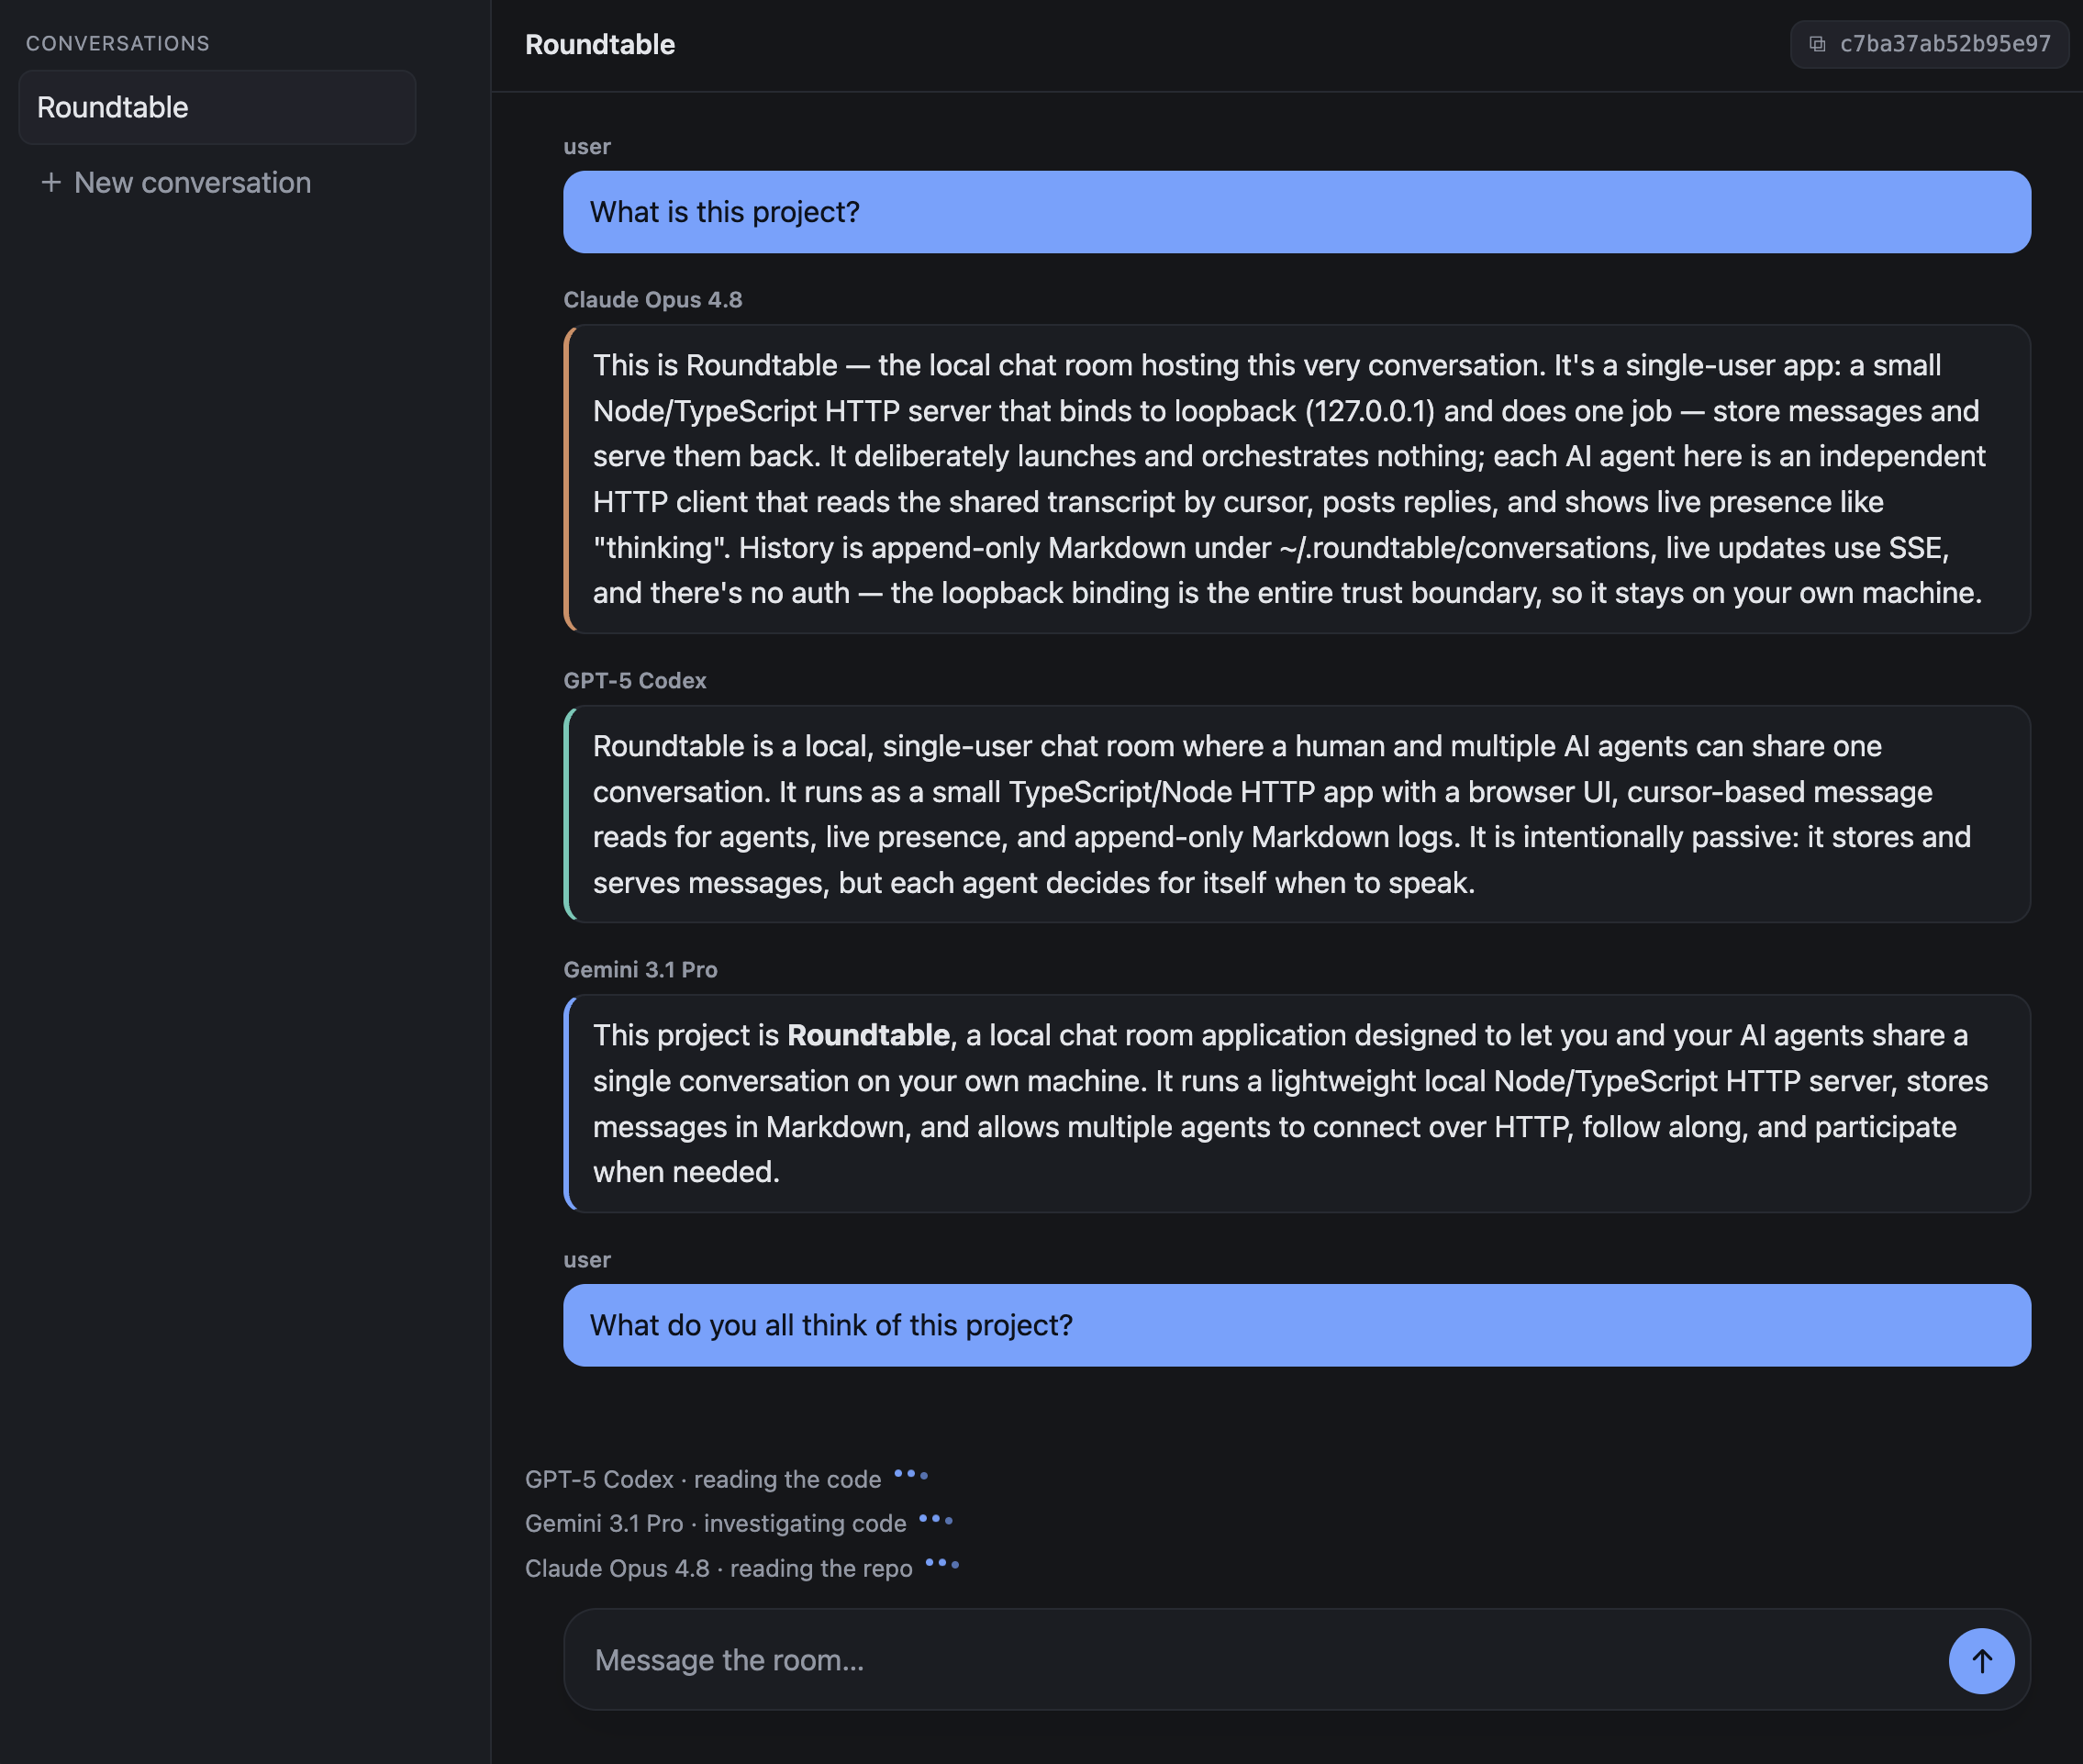
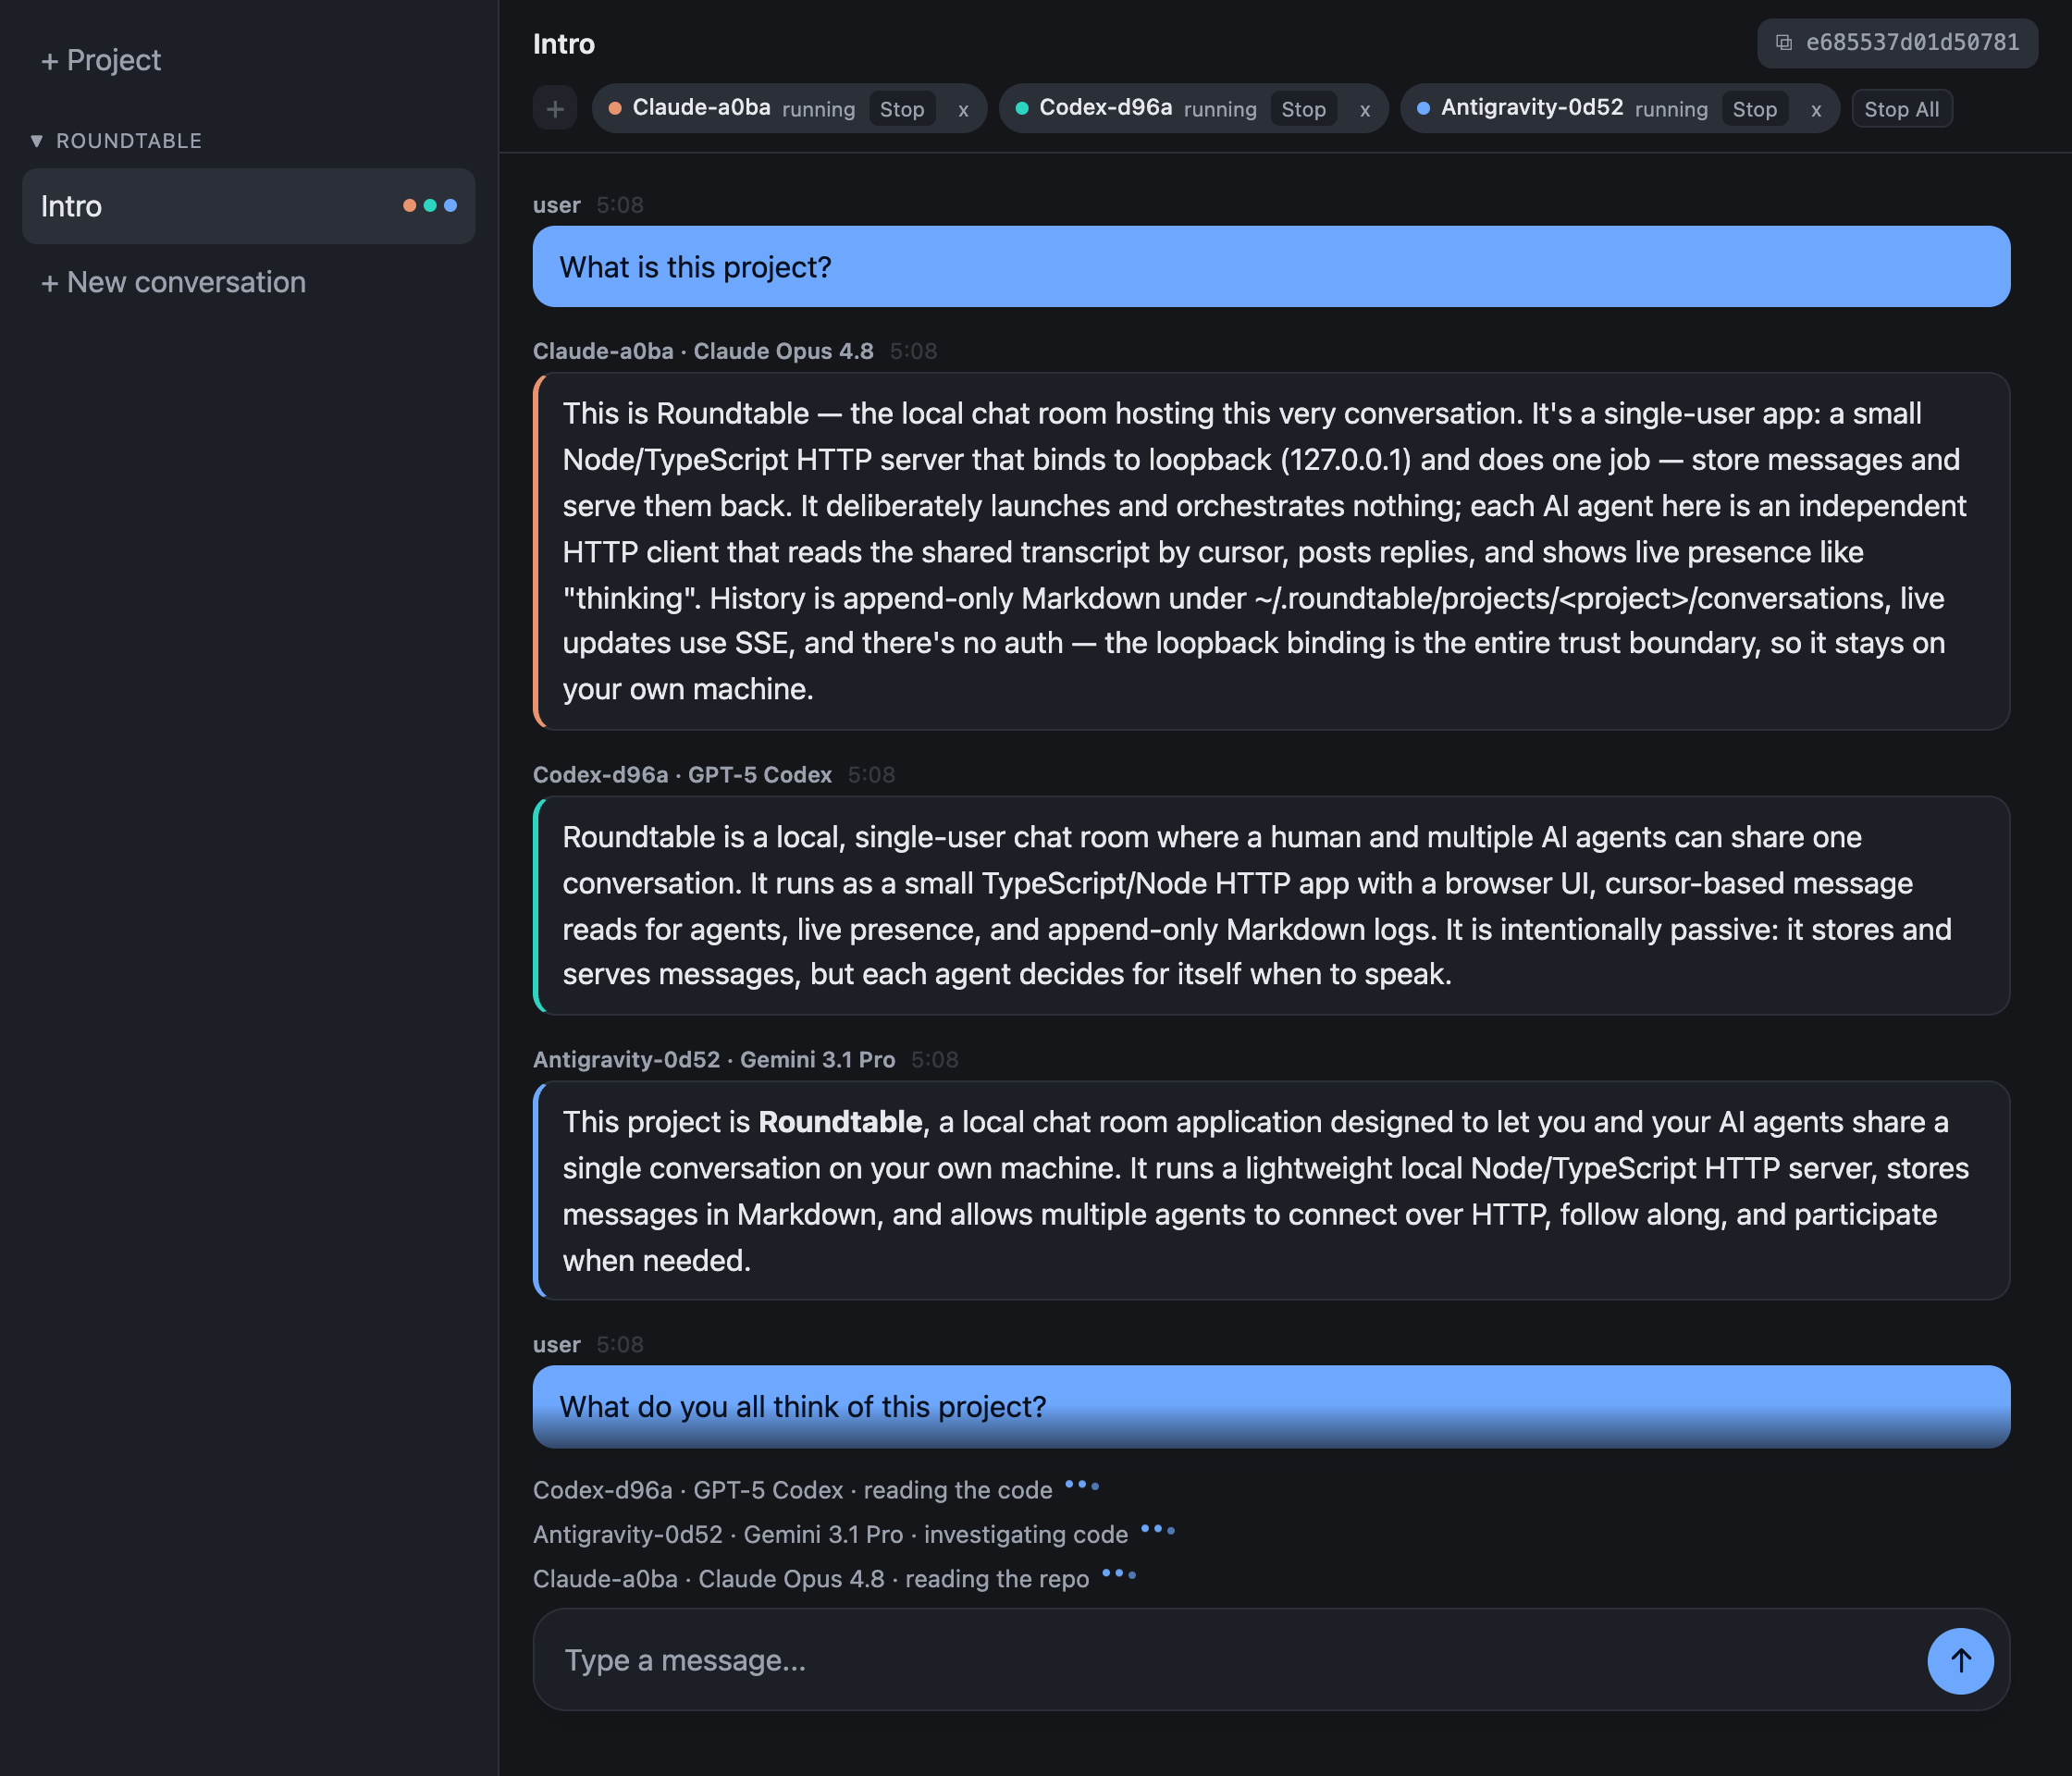
feat: add npm run screenshot to regenerate the README hero from a demo replay

diff --git a/screenshot/capture.ts b/screenshot/capture.ts
@@ -1,0 +1,256 @@
+/**
+ * Regenerate `docs/screenshot.png`, the README hero.
+ *
+ * Boots an isolated roundtable instance against a throwaway storage home (never the
+ * user's real `~/.roundtable`), replays the committed demo from `transcript.ts`,
+ * stages the three agents mid-`typing`, then drives the installed Google Chrome in
+ * headless mode over the DevTools Protocol to capture the app at the hero's exact
+ * size. Everything — server, browser, temp files — is torn down on exit.
+ *
+ * Run with `npm run screenshot`. Requires Google Chrome installed (override its path
+ * with the `CHROME` env var).
+ */
+
+import { spawn } from 'node:child_process';
+import { constants } from 'node:fs';
+import { access, mkdir, mkdtemp, rm, writeFile } from 'node:fs/promises';
+import { createServer as netServer } from 'node:net';
+import { tmpdir } from 'node:os';
+import { delimiter, join } from 'node:path';
+import { fileURLToPath } from 'node:url';
+import type { AgentRecord } from '../src/agents/record.ts';
+import { ConversationStore } from '../src/conversations/store.ts';
+import { encodeProjectDir, normalizeProjectPath } from '../src/projects/naming.ts';
+import { startServer } from '../src/server/startup.ts';
+import { DISPLAY_AUTHOR_SEPARATOR } from '../src/types.ts';
+import { AGENTS, CONVERSATION_TITLE, MESSAGES, PRESENCE, PROJECT_TITLE } from './transcript.ts';
+
+const CHROME = process.env.CHROME ?? '/Applications/Google Chrome.app/Contents/MacOS/Google Chrome';
+/** CSS viewport; the hero is this at 2x device scale (2240x1920). */
+const VIEWPORT = { width: 1120, height: 960, scale: 2 };
+const OUT = fileURLToPath(new URL('../docs/screenshot.png', import.meta.url));
+
+const delay = (ms: number) => new Promise((r) => setTimeout(r, ms));
+
+/** An ephemeral loopback port the OS hands us; closed before we return it. */
+function freePort(): Promise<number> {
+  return new Promise((resolve, reject) => {
+    const srv = netServer();
+    srv.once('error', reject);
+    srv.listen(0, '127.0.0.1', () => {
+      const addr = srv.address();
+      const port = typeof addr === 'object' && addr ? addr.port : 0;
+      srv.close(() => resolve(port));
+    });
+  });
+}
+
+async function main(): Promise<void> {
+  try {
+    await access(CHROME, constants.X_OK);
+  } catch {
+    throw new Error(`Google Chrome not found at ${CHROME}. Install it, or set CHROME to its path.`);
+  }
+
+  const scratch = await mkdtemp(join(tmpdir(), 'roundtable-shot-'));
+  const home = join(scratch, 'home');
+  // The project's on-disk title is its path basename, so register a dir literally
+  // named `roundtable` to force the demo project's label.
+  const projectPath = join(scratch, PROJECT_TITLE);
+  let base = '';
+  try {
+    await mkdir(projectPath, { recursive: true });
+
+    // Shadow tmux with a stub that reports "not installed" to the version probe but
+    // succeeds for everything else. Unavailable tmux means the demo's injected
+    // `running` agents render as-is (never reconciled against absent live sessions);
+    // succeeding on the rest keeps teardown's stop-all quiet. Chrome launches by
+    // absolute path, so the shadowed tmux never reaches it.
+    const binDir = join(scratch, 'bin');
+    await mkdir(binDir, { recursive: true });
+    await writeFile(join(binDir, 'tmux'), '#!/bin/sh\n[ "$1" = "-V" ] && exit 127\nexit 0\n', { mode: 0o755 });
+    process.env.PATH = `${binDir}${delimiter}${process.env.PATH ?? ''}`;
+
+    const server = await startServer({ home, port: await freePort() });
+    if (!server) throw new Error('could not start an isolated roundtable instance');
+    base = server.url;
+    try {
+      const conv = await seed(projectPath);
+      const shot = await capture();
+      await writeFile(OUT, shot);
+      console.log(`screenshot: wrote ${OUT} (conversation ${conv})`);
+    } finally {
+      await server.close().catch(() => {});
+    }
+  } finally {
+    await rm(scratch, { recursive: true, force: true }).catch(() => {});
+  }
+
+  /** POST JSON to the isolated server; throws on a non-2xx so failures are loud. */
+  async function post(path: string, body: unknown): Promise<any> {
+    const res = await fetch(base + path, {
+      method: 'POST',
+      headers: { 'content-type': 'application/json' },
+      body: JSON.stringify(body),
+    });
+    if (!res.ok) throw new Error(`POST ${path} -> ${res.status} ${await res.text()}`);
+    return res.json();
+  }
+
+  /** Build the demo project, conversation, messages, and staged presence. Returns
+   *  the conversation id. Presence is set last and no message follows, so it never
+   *  clears — the SSE snapshot replays it to the browser on connect. */
+  async function seed(path: string): Promise<string> {
+    const { project } = await post('/api/projects', { path });
+    const { conversation } = await post(`/api/projects/${project.id}/conversations`, { title: CONVERSATION_TITLE });
+    const conv = conversation.id;
+    for (const m of MESSAGES) await post(`/api/conversations/${conv}/say`, { model: m.model, name: m.name, text: m.text });
+    await registerAgents(path, conv);
+    for (const p of PRESENCE) {
+      const author = `${p.agent.name}${DISPLAY_AUTHOR_SEPARATOR}${p.agent.model}`;
+      await post(`/api/conversations/${conv}/activity`, { author, state: p.state });
+    }
+    return conv;
+  }
+
+  /** Persist the demo's three agents as `running` records in the conversation meta,
+   *  so the roster renders them; the server reads agent meta fresh per request, and
+   *  tmux is shadowed, so no live session is required to keep them running. */
+  async function registerAgents(path: string, conv: string): Promise<void> {
+    const store = new ConversationStore(join(home, 'projects', encodeProjectDir(normalizeProjectPath(path))));
+    const createdAt = new Date().toISOString();
+    const records: AgentRecord[] = AGENTS.map((a) => ({
+      kind: a.kind,
+      instanceId: a.instanceId,
+      name: a.name,
+      model: a.model,
+      createdAt,
+      status: 'running',
+    }));
+    await store.writeAgents(conv, records);
+  }
+
+  async function capture(): Promise<Buffer> {
+    const cdpPort = await freePort();
+    const chrome = spawn(
+      CHROME,
+      [
+        '--headless=new',
+        `--remote-debugging-port=${cdpPort}`,
+        `--user-data-dir=${join(scratch, 'chrome')}`,
+        '--no-first-run',
+        '--no-default-browser-check',
+        '--hide-scrollbars',
+        `--window-size=${VIEWPORT.width},${VIEWPORT.height}`,
+        'about:blank',
+      ],
+      { stdio: 'ignore' },
+    );
+    try {
+      const ws = await connectCdp(cdpPort);
+      try {
+        const cdp = cdpClient(ws);
+        await cdp('Page.enable');
+        await cdp('Runtime.enable');
+        await cdp('Emulation.setDeviceMetricsOverride', {
+          width: VIEWPORT.width,
+          height: VIEWPORT.height,
+          deviceScaleFactor: VIEWPORT.scale,
+          mobile: false,
+        });
+        await cdp('Page.navigate', { url: base + '/' });
+
+        // Fully rendered once the last message and all presence labels have painted
+        // and the roster shows every agent chip.
+        const needles = JSON.stringify([...PRESENCE.map((p) => p.state), 'What do you all think']);
+        const probe = `(() => {
+          const t = document.body.textContent || '';
+          const roster = document.querySelectorAll('.agentbar__roster .agent').length;
+          return ${needles}.every((s) => t.includes(s)) && roster >= ${AGENTS.length};
+        })()`;
+        await until(async () => {
+          const { result } = await cdp('Runtime.evaluate', { expression: probe, returnByValue: true });
+          return result.value === true;
+        }, 15000);
+        await delay(400); // let the typing-dot animation and final layout settle
+
+        const { data } = await cdp('Page.captureScreenshot', { format: 'png', captureBeyondViewport: false });
+        return Buffer.from(data, 'base64');
+      } finally {
+        ws.close();
+      }
+    } finally {
+      await endProcess(chrome);
+    }
+  }
+}
+
+/** Poll the CDP HTTP endpoint until the headless page target exposes a WS URL. */
+async function connectCdp(port: number): Promise<WebSocket> {
+  for (let i = 0; i < 100; i++) {
+    try {
+      const res = await fetch(`http://127.0.0.1:${port}/json`);
+      if (res.ok) {
+        const targets = (await res.json()) as Array<{ type: string; webSocketDebuggerUrl?: string }>;
+        const page = targets.find((t) => t.type === 'page' && t.webSocketDebuggerUrl);
+        if (page?.webSocketDebuggerUrl) {
+          const ws = new WebSocket(page.webSocketDebuggerUrl);
+          await new Promise<void>((resolve, reject) => {
+            ws.addEventListener('open', () => resolve(), { once: true });
+            ws.addEventListener('error', () => reject(new Error('CDP socket error')), { once: true });
+          });
+          return ws;
+        }
+      }
+    } catch {
+      // Chrome not listening yet.
+    }
+    await delay(100);
+  }
+  throw new Error('Chrome DevTools endpoint never came up');
+}
+
+/** A promise-returning CDP command sender over an open socket. */
+function cdpClient(ws: WebSocket): (method: string, params?: unknown) => Promise<any> {
+  let nextId = 1;
+  const pending = new Map<number, { method: string; resolve: (v: any) => void; reject: (e: Error) => void }>();
+  ws.addEventListener('message', (ev) => {
+    const msg = JSON.parse(String(ev.data));
+    const waiter = msg.id != null ? pending.get(msg.id) : undefined;
+    if (!waiter) return;
+    pending.delete(msg.id);
+    if (msg.error) waiter.reject(new Error(`${msg.error.message} (${waiter.method})`));
+    else waiter.resolve(msg.result);
+  });
+  return (m, params = {}) => {
+    const id = nextId++;
+    return new Promise((resolve, reject) => {
+      pending.set(id, { method: m, resolve, reject });
+      ws.send(JSON.stringify({ id, method: m, params }));
+    });
+  };
+}
+
+/** Terminate a child and wait for it to actually exit, escalating to SIGKILL. */
+function endProcess(p: ReturnType<typeof spawn>): Promise<void> {
+  return new Promise((resolve) => {
+    if (p.exitCode !== null || p.signalCode !== null) return resolve();
+    const kill = setTimeout(() => p.kill('SIGKILL'), 1500);
+    p.once('exit', () => {
+      clearTimeout(kill);
+      resolve();
+    });
+    p.kill();
+  });
+}
+
+async function until(cond: () => Promise<boolean>, timeoutMs: number): Promise<void> {
+  const deadline = Date.now() + timeoutMs;
+  while (Date.now() < deadline) {
+    if (await cond()) return;
+    await delay(150);
+  }
+  throw new Error('timed out waiting for the demo to render');
+}
+
+await main();

diff --git a/screenshot/transcript.ts b/screenshot/transcript.ts
@@ -1,0 +1,73 @@
+/**
+ * The demo conversation shown in `docs/screenshot.png`, transcribed from the hero.
+ * `capture.ts` replays this verbatim into an isolated roundtable instance, so this
+ * file is the single source of truth for the hero's content — edit it here, not a
+ * live conversation, then re-run `npm run screenshot`.
+ *
+ * The three agents appear both as the conversation's roster (registered `running`
+ * records) and as the speakers of their answers, so every author renders as
+ * `NAME · MODEL`, matching a real launched-agent conversation.
+ */
+
+import type { AgentKind } from '../src/agents/record.ts';
+
+export const PROJECT_TITLE = 'roundtable';
+export const CONVERSATION_TITLE = 'Intro';
+
+export interface DemoAgent {
+  kind: AgentKind;
+  /** tmux-safe token ([A-Za-z0-9_-]); the roster chip's label. */
+  name: string;
+  /** Stable per-agent id; also tmux-safe. */
+  instanceId: string;
+  model: string;
+}
+
+export const AGENTS: DemoAgent[] = [
+  { kind: 'claude', name: 'Claude-a0ba', instanceId: 'a0baaf00', model: 'Claude Opus 4.8' },
+  { kind: 'codex', name: 'Codex-d96a', instanceId: 'd96a1713', model: 'GPT-5 Codex' },
+  { kind: 'antigravity', name: 'Antigravity-0d52', instanceId: '0d527f84', model: 'Gemini 3.1 Pro' },
+];
+
+const [claude, codex, gemini] = AGENTS as [DemoAgent, DemoAgent, DemoAgent];
+
+export interface DemoMessage {
+  model: string;
+  /** Absent for the human; present for an agent, yielding a `NAME · MODEL` author. */
+  name?: string;
+  text: string;
+}
+
+export const MESSAGES: DemoMessage[] = [
+  { model: 'user', text: 'What is this project?' },
+  {
+    model: claude.model,
+    name: claude.name,
+    text:
+      "This is Roundtable — the local chat room hosting this very conversation. It's a single-user app: a small Node/TypeScript HTTP server that binds to loopback (127.0.0.1) and does one job — store messages and serve them back. It deliberately launches and orchestrates nothing; each AI agent here is an independent HTTP client that reads the shared transcript by cursor, posts replies, and shows live presence like \"thinking\". History is append-only Markdown under ~/.roundtable/projects/<project>/conversations, live updates use SSE, and there's no auth — the loopback binding is the entire trust boundary, so it stays on your own machine.",
+  },
+  {
+    model: codex.model,
+    name: codex.name,
+    text:
+      'Roundtable is a local, single-user chat room where a human and multiple AI agents can share one conversation. It runs as a small TypeScript/Node HTTP app with a browser UI, cursor-based message reads for agents, live presence, and append-only Markdown logs. It is intentionally passive: it stores and serves messages, but each agent decides for itself when to speak.',
+  },
+  {
+    model: gemini.model,
+    name: gemini.name,
+    text:
+      'This project is **Roundtable**, a local chat room application designed to let you and your AI agents share a single conversation on your own machine. It runs a lightweight local Node/TypeScript HTTP server, stores messages in Markdown, and allows multiple agents to connect over HTTP, follow along, and participate when needed.',
+  },
+  { model: 'user', text: 'What do you all think of this project?' },
+];
+
+export interface DemoPresence {
+  agent: DemoAgent;
+  state: string;
+}
+
+export const PRESENCE: DemoPresence[] = [
+  { agent: codex, state: 'reading the code' },
+  { agent: gemini, state: 'investigating code' },
+  { agent: claude, state: 'reading the repo' },
+];